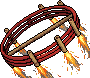
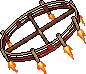
Bak Siang: new rocket-ride pose with reins to the nose; talai uses the bamboo hoop
Claude-Session: https://claude.ai/code/session_01PSBtvsuZFS3pknb8ULkNKy

diff --git a/web/characters/baksiang/character.js b/web/characters/baksiang/character.js
@@ -87,7 +87,7 @@ window.CHARACTERS.baksiang = {
       name: "บั้งไฟล้าน", desc: "ไม้ตาย ชาร์จ 1 วิ กระโดดขี่บั้งไฟยักษ์พุ่งชนศัตรูอย่างแรง แล้วกระโดดลง", cd: 18, ult: true,
       charge: 1.0, chargeColor: "#ffb02e", chargeFrame: 0, frameOffset: 1, sound: "rocket",
       dur: 0.9, frames: [0, 0.4, 0.8], icon: "rocket",
-      dash: { dist: 620, time: 0.62, forward: true, hopOff: 420, ride: { key: "rocket", scale: 2.1, lift: 24 },
+      dash: { dist: 620, time: 0.62, forward: true, hopOff: 420, ride: { key: "rocket", scale: 2.1, lift: 24, rope: { hand: [51, -63], nose: [148, 0] } },
         hit: { dmg: [70, 90], power: 2, kb: 300, knockdown: 1.5, crit: 0.3, sparkColor: "#ffb02e", sparkColor2: "#ff5a1f",
           fx: [{ key: "fireblast", dx: 10, dy: -10, anchor: "left", life: 0.5, s0: 0.7, s1: 1.3 }, { shockwave: true }],
           targetFx: [{ key: "groundfire", dy: 4, anchor: "bottom", life: 1.2, s0: 1.8, s1: 2.4 }] } },

diff --git a/web/game.js b/web/game.js
@@ -1558,6 +1558,18 @@
     }
     const blink = f.invulnT > 0 && f.downT <= 0 && Math.floor(f.invulnT * 20) % 2 === 0 ? 0.55 : 1;
     drawFrame(a, frame, f.x - camX + ox, f.y - lift, f.facing, f.kit.scale, blink, f.flash, rot);
+    if (ride && f.skill.dashing && ride.rope) {
+      // the reins: a taut rope from the fists to the rocket's nose
+      const [hx, hy] = ride.rope.hand, [nx, ny] = ride.rope.nose;
+      const x0 = f.x - camX + f.facing * hx, y0 = f.y - lift + hy, x1 = f.x - camX + f.facing * nx, y1 = f.y - lift + ny;
+      ctx.save();
+      ctx.lineCap = "round";
+      ctx.strokeStyle = "#3a2414"; ctx.lineWidth = 4;
+      ctx.beginPath(); ctx.moveTo(x0, y0); ctx.quadraticCurveTo((x0 + x1) / 2, (y0 + y1) / 2 + 6, x1, y1); ctx.stroke();
+      ctx.strokeStyle = "#a8743f"; ctx.lineWidth = 2;
+      ctx.beginPath(); ctx.moveTo(x0, y0); ctx.quadraticCurveTo((x0 + x1) / 2, (y0 + y1) / 2 + 6, x1, y1); ctx.stroke();
+      ctx.restore();
+    }
   }
 
   function drawStunStars(camX) {

diff --git a/web/sw.js b/web/sw.js
@@ -1,7 +1,7 @@
 // Generated by tools/build_sw.py from tools/sw_template.js. Do not edit web/sw.js by hand.
 // Offline play: every game file is cached on install. Pages are fetched fresh when online
 // (falling back to the cache), everything else is served from the cache first.
-const VERSION = "2425c6ebb3";
+const VERSION = "5bf3a03897";
 const CACHE = "komfaek-" + VERSION;
 const FONT_CACHE = "komfaek-fonts";
 const FILES = [
